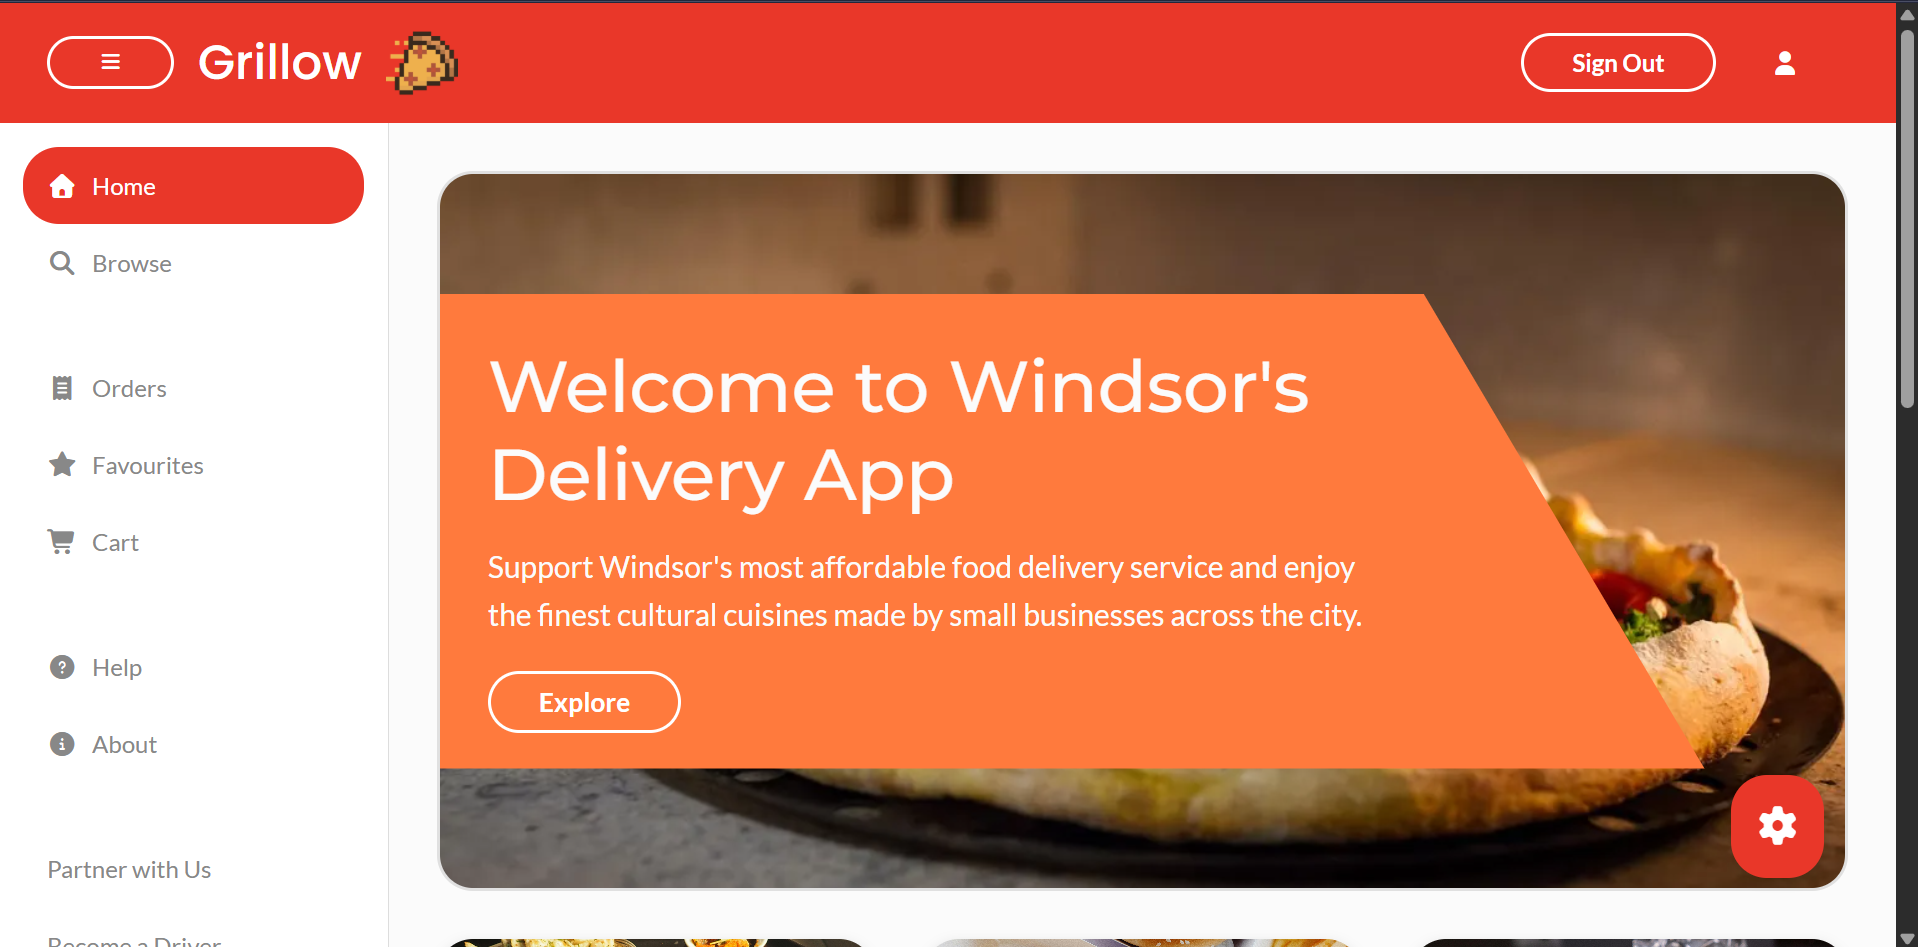
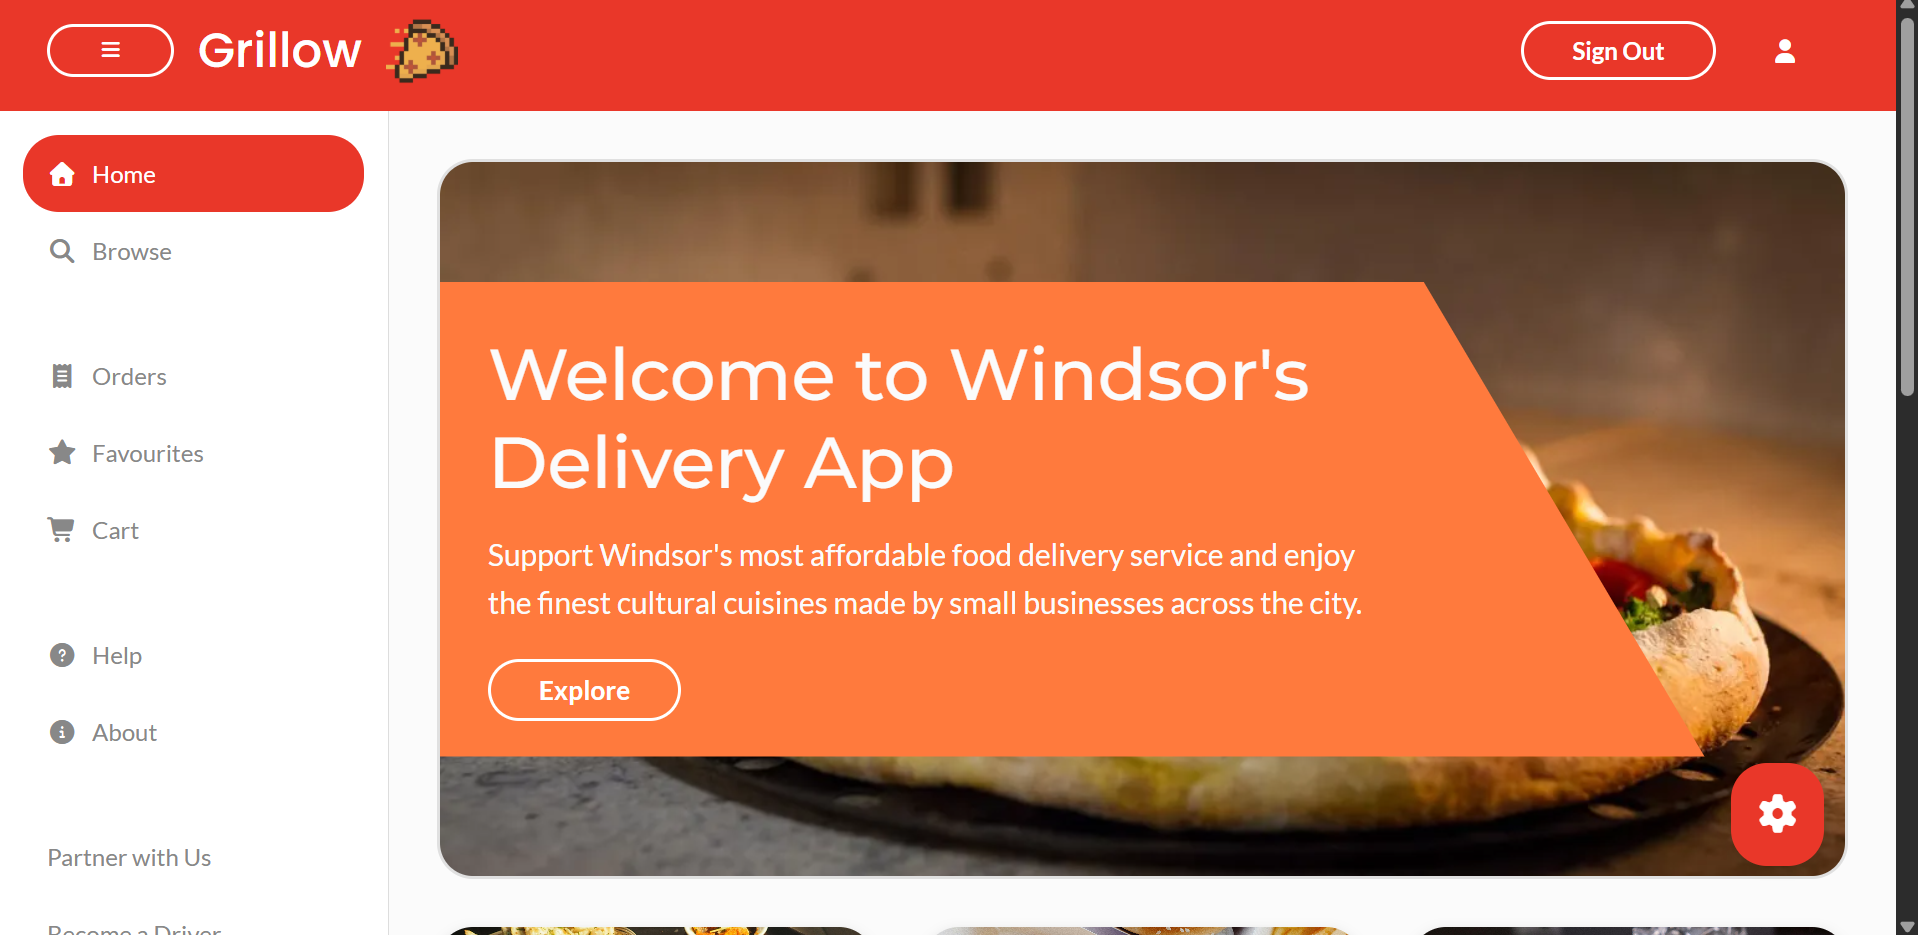
proj section changes
Manipulated project images and changed the structure and classes of each project card

diff --git a/scripts/homepage.ts b/scripts/homepage.ts
@@ -13,14 +13,8 @@ import type { Project } from './types';
 
 import { filterEvent, displayFilter } from './filterFunc';
 
-const techSkillsDiv = document.getElementById("technical-skills-container");
-// Retrieve the outer container div to put the jobs inside.
 
-
-const projectContainerDiv = document.getElementById("projects-div-container"); 
-let currentProjCard: number = 0;
-const projLeftBtn = document.getElementById("btn-left");
-const projRightBtn = document.getElementById("btn-right");
+const projectContainerDiv = document.querySelector(".section.projects"); 
 
 const jobCardsDivContainer = document.getElementById('jobs');
 const jobFilterId = "job-types";
@@ -36,10 +30,6 @@ const displayProjects = (projects: Project[], projectLimit: number) => {
     let projectCardsDiv = document.getElementById("project-cards-div");
     if (projectLimit > projects.length) {
         projectLimit = projects.length;
-        currentProjCard = Math.ceil(projects.length / 2) - 1;
-    }
-    else {
-        currentProjCard = Math.ceil(projectLimit / 2) - 1;
     }
 
     if (!projectCardsDiv) {
@@ -48,8 +38,6 @@ const displayProjects = (projects: Project[], projectLimit: number) => {
         projectContainerDiv?.appendChild(projectCardsDiv);
     }
 
-    projectCardsDiv.replaceChildren();
-    
     for (let projIndex = 0; projIndex < projectLimit; projIndex++) {
 
         let {
@@ -70,28 +58,31 @@ const displayProjects = (projects: Project[], projectLimit: number) => {
         projectCardA.classList.add("project-card");
 
         const projectInfo = document.createElement("div");
+        projectInfo.classList.add('proj-info');
         const projectTypeP = document.createElement("p");
-        projectTypeP.classList.add("type");
+        projectTypeP.classList.add("proj-type");
         const projectImg = document.createElement("img");
-        const projectTitleh3 = document.createElement("h4");
+        const projectTitleh4 = document.createElement("h4");
+        projectTitleh4.classList.add('proj-title');
         const projectIntervalP = document.createElement("p");
+        projectIntervalP.classList.add('proj-interval');
 
         projectCardA.href = `projects/index.html?project-name=${encodeURI(projTitle)}`;
 
 
         projectTypeP.textContent = type.join(", ");
 
-        projectImg.src = (projImgs[0] && projImgs[0] !== "#") ? projImgs[0] : "https://placehold.net/400x400.png";
+        projectImg.src = (projImgs[0] && projImgs[0] !== "#") ? projImgs[0] : "https://placehold.net/600x400.png";
         projectImg.className = "proj-img";
 
-        projectTitleh3.textContent = projTitle;
+        projectTitleh4.textContent = projTitle;
 
         projectIntervalP.textContent = `${projStart} - ${projFinish}`
 
         
         projectCardA.appendChild(projectImg);
         projectInfo.appendChild(projectTypeP);
-        projectInfo.appendChild(projectTitleh3);
+        projectInfo.appendChild(projectTitleh4);
         projectInfo.appendChild(projectIntervalP);
         projectCardA.appendChild(projectInfo);
         

diff --git a/styles.css b/styles.css
@@ -316,14 +316,45 @@ h5 {
 }
 
 .section.projects {
+    /* Creates a subtle 40px grid pattern */
     background-color: var(--surface);
+    background-image: 
+        linear-gradient(to right, rgba(10, 25, 47, 0.04) 1px, transparent 1px),
+        linear-gradient(to bottom, rgba(10, 25, 47, 0.04) 1px, transparent 1px);
+    background-size: 40px 40px;
+    
+}
+
+#project-cards-div {
+    width: 100%;
+    display: flex;
+    flex-direction: row;
+    justify-content: space-evenly;
+    align-items: center;
+}
+
+.project-card {
+    width: 30%;
+    text-decoration: none;
+}
+
+.proj-info {
+    width: 100%;
+    height: 7rem;
+    background-color: var(--secondary);
+    color: var(--primary);
+    padding: 0.5rem;
+    display: flex;
+    flex-direction: column;
+    justify-content: space-evenly;
+    align-items: left;
 }
 
 
 .proj-img {
     width: 100%;
     height: 20rem;
-    object-fit: contain;
+    object-fit:cover;
 }
 
 

diff --git a/scripts/main.ts b/scripts/main.ts
@@ -99,7 +99,7 @@ export const projects: Project[] = [
    {
         type: ["Web Development", "Front End"],
         projLink: "https://github.com/Marvoos/PortfolioSite",
-        projImgs: ["#"],
+        projImgs: ["../images/project-imgs/port-imgs/port1.png"],
         projTitle: "Personal Portfolio using Front-End Technologies",
         projStart: getMonthYearDate(new Date("2026-06-11")),
         projFinish: "NOW",

diff --git a/index.html b/index.html
@@ -92,10 +92,6 @@
                 <h2>Highlighted Projects</h2>
                 <a class="link subtitle" href="./projects/">See All Projects &rarr; </a>
             </div>
-        
-            <div id="projects-div-container">
-                
-            </div> 
             <p class="coords-decor"></p>
         </section>
         <section class="section">
